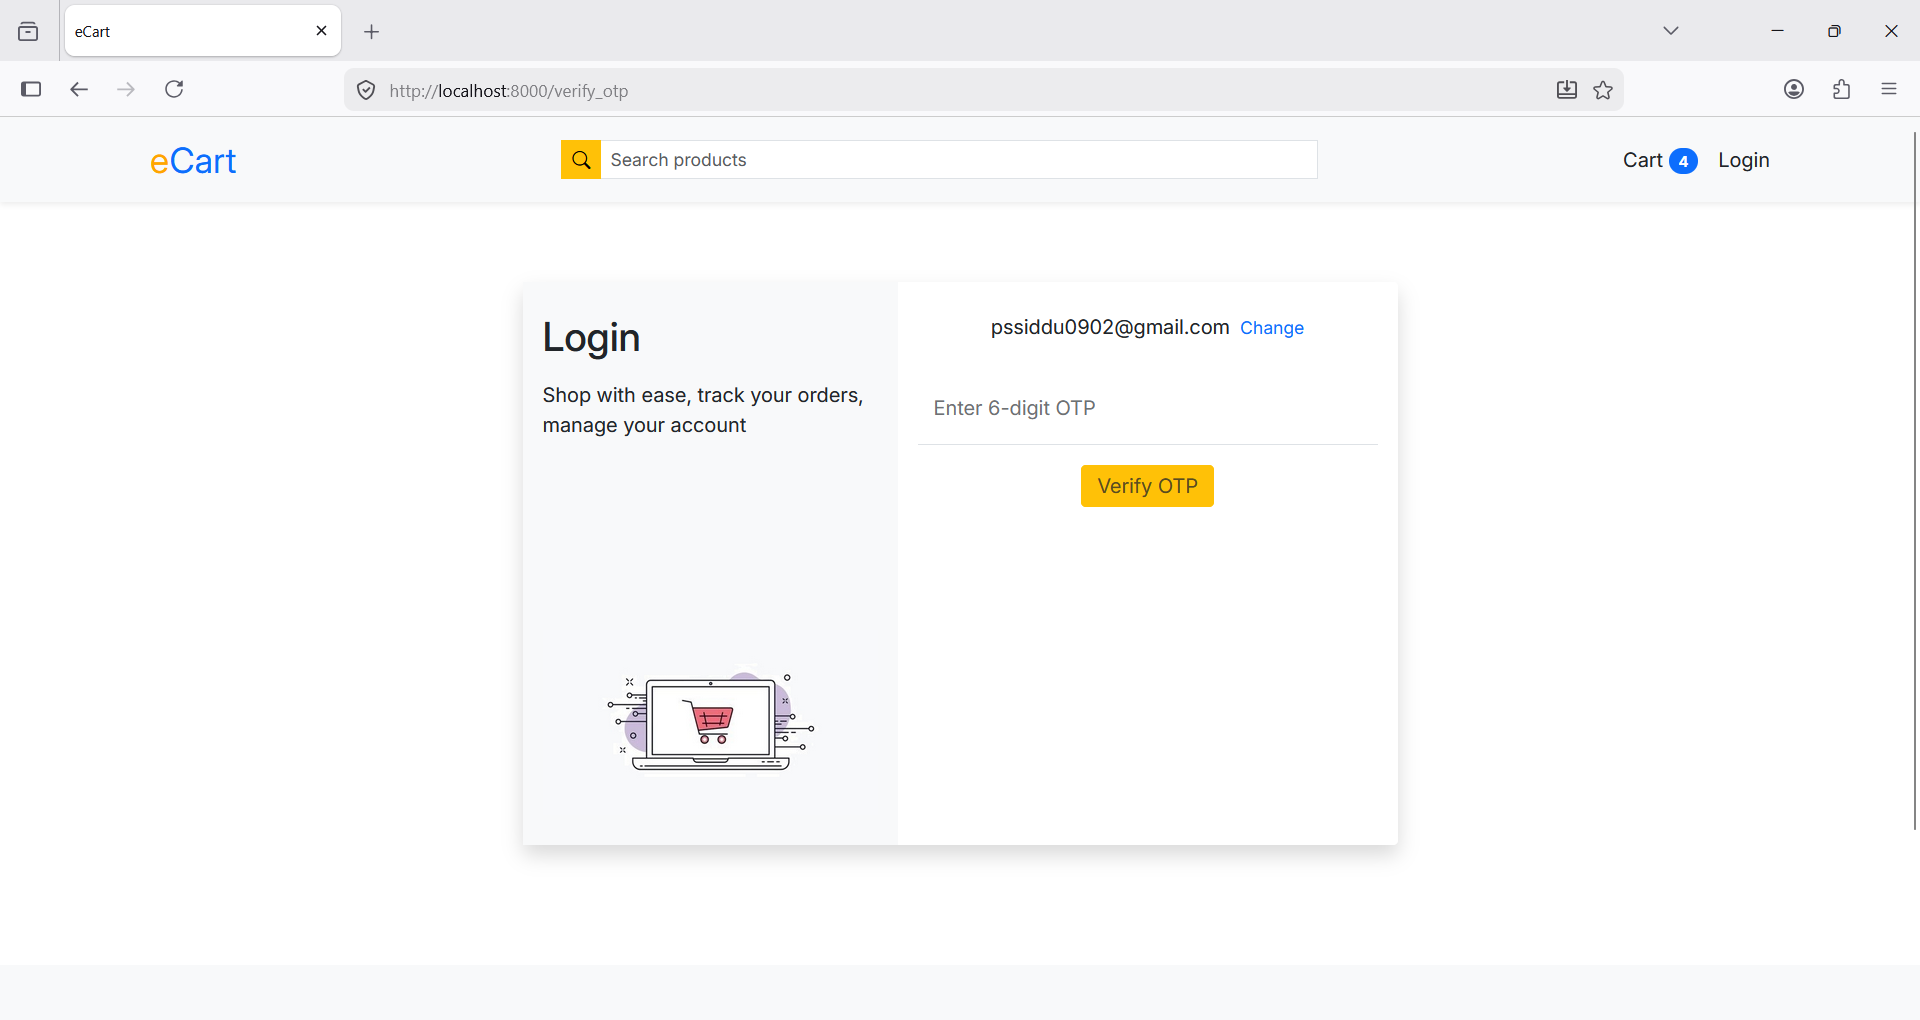
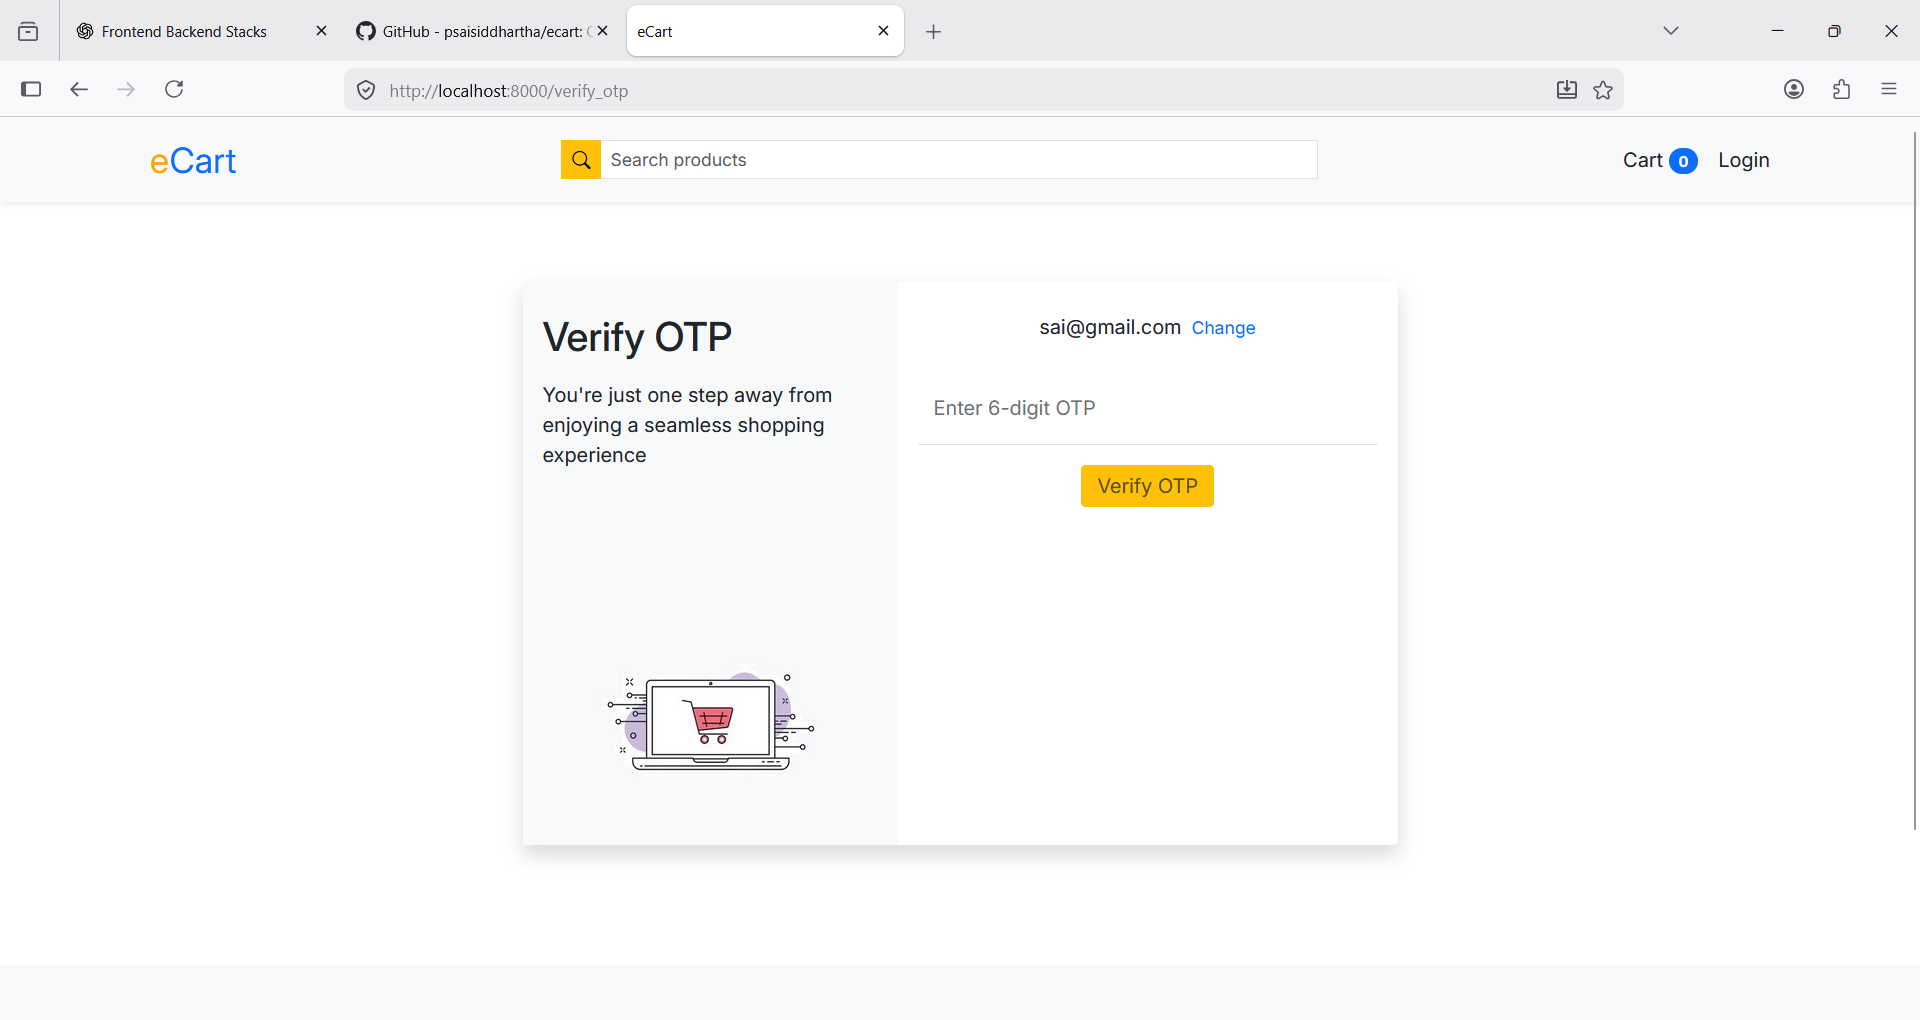
Changes

diff --git a/store/templates/verify_otp.html b/store/templates/verify_otp.html
@@ -19,9 +19,9 @@
       <div class="flex-fill px-3 py-4">
         <div class="d-flex align-items-center justify-content-center gap-2 mb-4">
             <span>{{ email }}</span>
-            {% if purpose=='login' %}
+            {% if purpose == 'login' %}
             <a href="{% url 'login' %}" class="text-decoration-none" style="font-size: 14px;">Change</a>
-            {% elif purpose=='signup' %}
+            {% elif purpose == 'signup' %}
             <a href="{% url 'signup' %}" class="text-decoration-none" style="font-size: 14px;">Change</a>
             {% endif %}
         </div>

diff --git a/store/templates/signup.html b/store/templates/signup.html
@@ -32,7 +32,7 @@
         </form>
         <div class="mt-auto text-center">
           <small class="text-muted">Already have an account?</small>
-          <a href="/store/login/" class="text-decoration-none ms-1">Login</a>
+          <a href="{% url 'login' %}" class="text-decoration-none ms-1">Login</a>
         </div>
       </div>
     </div>